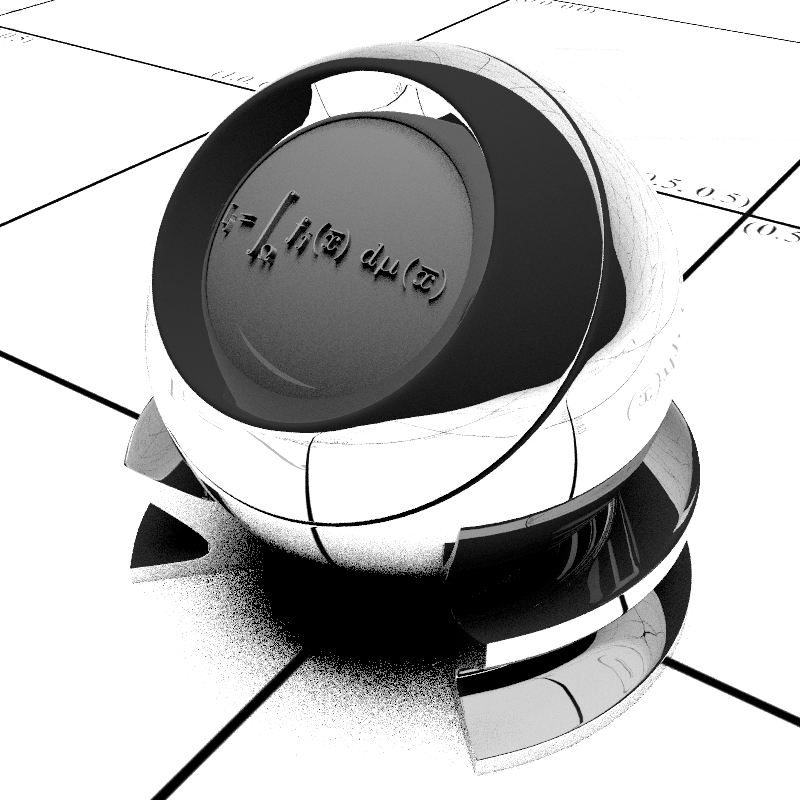
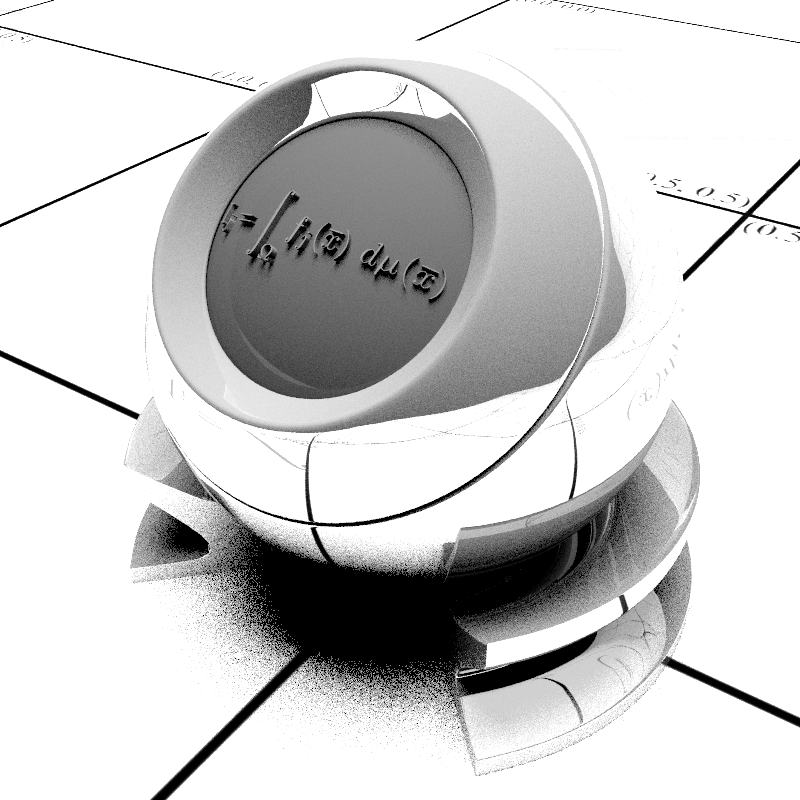
feat: use Schlick approximation for reflectance

diff --git a/src/crayg/src/scene/shadingnetworks/materials/UsdPreviewSurface.cpp b/src/crayg/src/scene/shadingnetworks/materials/UsdPreviewSurface.cpp
@@ -1,5 +1,6 @@
 #include "UsdPreviewSurface.h"
 #include "Logger.h"
+#include "basics/MathUtils.h"
 #include "sampling/Sampling.h"
 #include "scene/Imageable.h"
 
@@ -33,13 +34,28 @@ Color UsdPreviewSurface::getReflectivity(const SurfaceInteraction &surfaceIntera
     return Color::createGrey(metallic.evaluate(surfaceInteraction));
 }
 
+float F_schlick(float ior, const Vector3f &view, const Vector3f &halfVector) {
+    const float iorDiff = 1 - ior;
+    const float iorSum = 1 + ior;
+    const float F_0 = (iorDiff * iorDiff) / (iorSum * iorSum);
+    const float oneMinus = 1.f - halfVector.dot(view);
+    return F_0 + (1.f - F_0) * oneMinus * oneMinus * oneMinus * oneMinus * oneMinus;
+}
+
 void UsdPreviewSurface::getLobes(const SurfaceInteraction &surfaceInteraction, Lobes &lobes) {
     lobes.specular.weight = getReflectivity(surfaceInteraction);
+    const Vector3f halfVector =
+        (lobes.specular.sampleDirection.direction + surfaceInteraction.ray.direction).normalize();
+
+    float reflectance = 0;
     if (!lobes.specular.weight.isBlack()) {
         lobes.specular.sampleDirection = surfaceInteraction.spawnReflectionRayFromSurface();
+        const float evaluatedIor = ior.evaluate(surfaceInteraction);
+        reflectance = F_schlick(evaluatedIor, surfaceInteraction.ray.direction, halfVector);
     }
 
-    lobes.diffuse.weight = (Color::createWhite() - lobes.specular.weight) * diffuseColor.evaluate(surfaceInteraction);
+    lobes.diffuse.weight =
+        (Color::createWhite() - lobes.specular.weight * reflectance) * diffuseColor.evaluate(surfaceInteraction);
     if (!lobes.diffuse.weight.isBlack()) {
         const Vector3f randomDirOnHemisphere = Sampling::uniformSampleHemisphere();
         auto orthonormalBasis = surfaceInteraction.getOrthonormalBasis();
